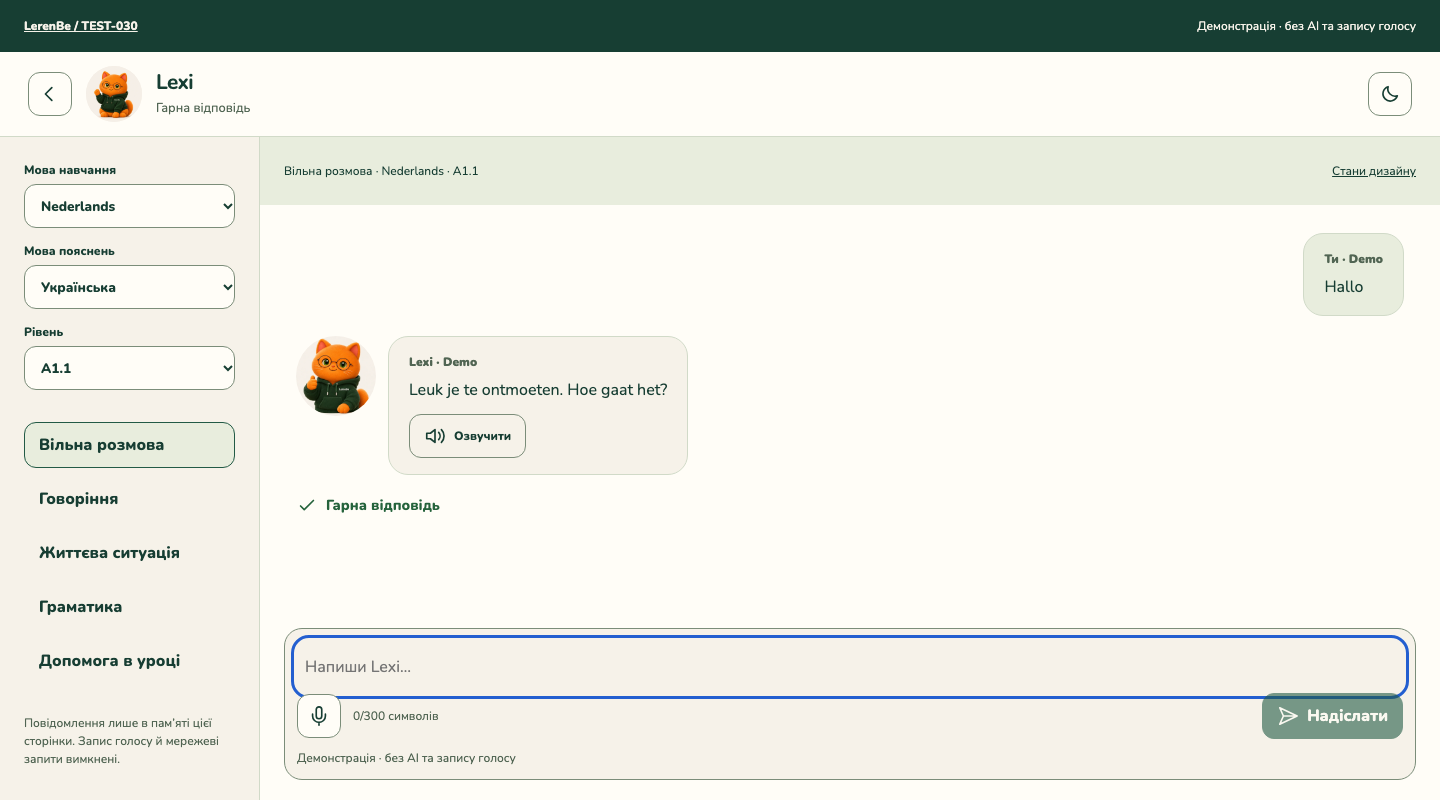
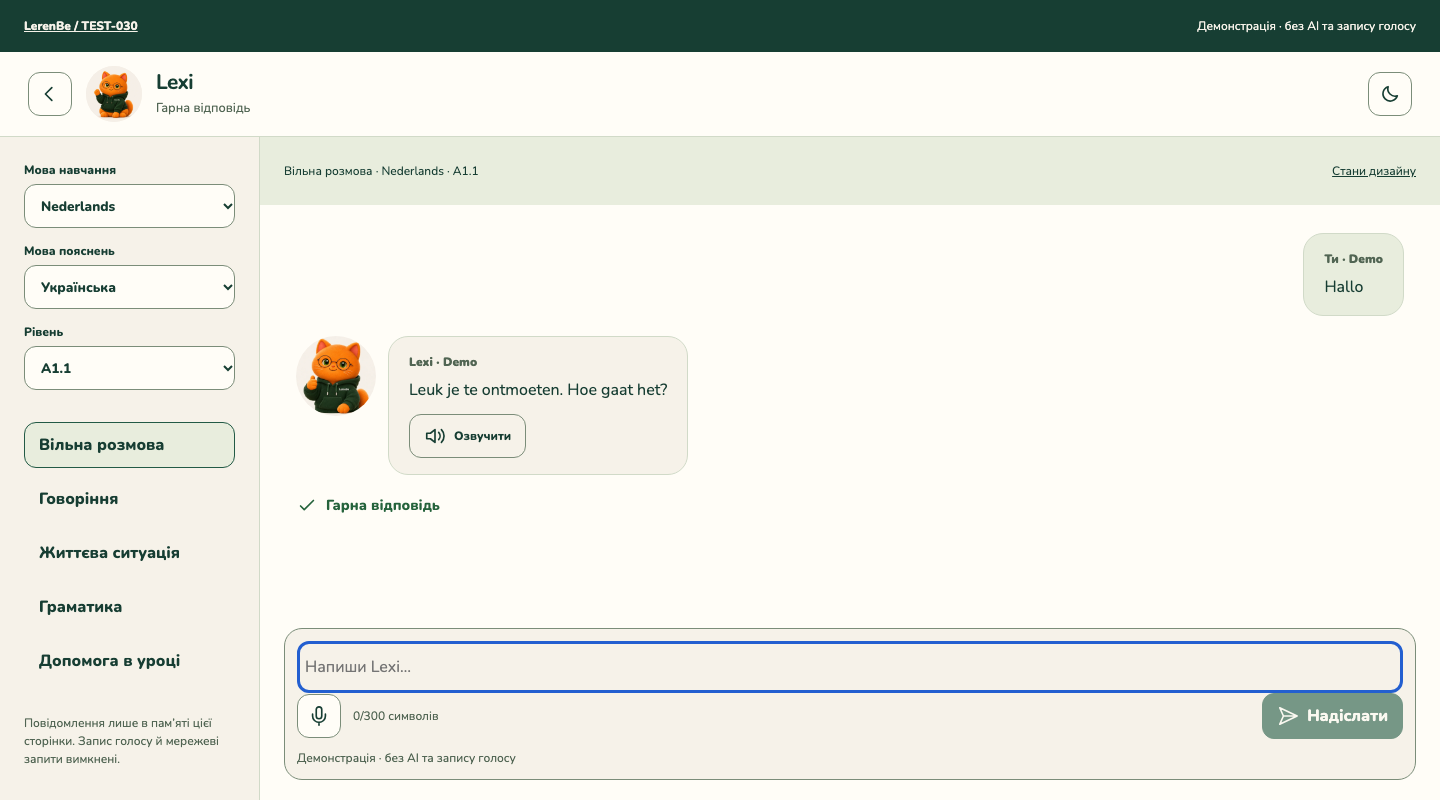
TEST-033: close the keyboard after sending on a phone; focus ring inside the field
Owner's Samsung check of preview 2:
- after sending, the keyboard stayed open and had to be closed by hand
  (the chat re-focused the field when Lexi's reply arrived). On touch
  devices (pointer: coarse) sending now takes the focus out of the
  field and the reply no longer puts it back; on desktop the focus
  stays in the field as before.
- the field's focus ring (outline-offset 3px) ran over the mic / send
  row; it is now drawn inside the field.

lexi-keyboard-033 checks both (emulation); preview3; tests 44/44,
lab checks 4/4. Physical Samsung re-check pending.

Changed region(s): [[0.1875, 0.7812, 1.0, 0.875]]

diff --git a/app/modules/lexi/chat.js b/app/modules/lexi/chat.js
@@ -32,14 +32,14 @@ export function mountLexiChat(root,{engine,voice=null,demo=false,initial={},cont
  function reset(){epoch++;s.settings=null;stopVoice?.();stopVoice=null;s.busy=false;s.pending=null;s.error=null;s.until=0;s.messages=[];s.state='welcome';s.notice=t().changed;clearInterval(interval);bind();render()}
  function scrollEnd(){const log=root.querySelector('.chat-log');log.scrollTop=log.scrollHeight}
  async function send(retry=false){if(s.busy||s.until>Date.now()||(!retry&&s.pending))return;const text=retry?s.pending?.content:s.draft.trim();if(!text)return;if(text.length>max()){s.error={code:'tooLong'};s.state='error';render();return}if(!retry){s.pending={role:'user',content:text};s.messages.push(s.pending);s.draft=''}s.error=null;s.notice='';s.busy=true;s.state='thinking';const token=++epoch;render();scrollEnd();
- try{const out=await engine.send(s.scenario,{ui:s.ui,target:s.target,level:s.level,topic:s.scenario==='lesson'?(lessonContext.topic||(demo?'Знайомство':'')):'',lesson:s.scenario==='lesson'?(lessonContext.lesson||(demo?'Перша розмова':'')):'',question:s.scenario==='lesson'?lessonContext.question||'':'',answer:s.scenario==='lesson'?lessonContext.answer||'':''},s.messages.slice(-12).map(({role,content})=>({role,content})),{...(hostExtra?hostExtra(s.scenario)||{}:{}),...(s.scenario==='roleplay'?{scene:s.scene}:{})});if(disposed||token!==epoch)return;s.messages.push({role:'assistant',content:out.reply||out.answer,result:out});s.pending=null;s.state=out.kind==='ask'?'idle':out.verdict||'idle';try{onReply&&onReply(out,{scenario:s.scenario,ui:s.ui,target:s.target,level:s.level,user:text,messages:s.messages.map(({role,content})=>({role,content}))})}catch(e){}}catch(e){if(disposed||token!==epoch)return;s.error={code:Object.hasOwn(errorPolicy,e.code)?e.code:'network',wait:e.wait};s.state=s.error.code==='offline'?'offline':'error';if(s.error.code==='limit')s.until=Number(e.wait?.at)||0;if(s.error.code==='slow'){s.until=Date.now()+Math.max(0,Number(e.wait?.seconds)||0)*1000;clearInterval(interval);interval=setInterval(()=>{render();if(Date.now()>=s.until)clearInterval(interval)},1000)}}finally{if(!disposed&&token===epoch){s.busy=false;render();scrollEnd();if(!s.error)root.querySelector('[name=draft]')?.focus({preventScroll:true})}}}
+ try{const out=await engine.send(s.scenario,{ui:s.ui,target:s.target,level:s.level,topic:s.scenario==='lesson'?(lessonContext.topic||(demo?'Знайомство':'')):'',lesson:s.scenario==='lesson'?(lessonContext.lesson||(demo?'Перша розмова':'')):'',question:s.scenario==='lesson'?lessonContext.question||'':'',answer:s.scenario==='lesson'?lessonContext.answer||'':''},s.messages.slice(-12).map(({role,content})=>({role,content})),{...(hostExtra?hostExtra(s.scenario)||{}:{}),...(s.scenario==='roleplay'?{scene:s.scene}:{})});if(disposed||token!==epoch)return;s.messages.push({role:'assistant',content:out.reply||out.answer,result:out});s.pending=null;s.state=out.kind==='ask'?'idle':out.verdict||'idle';try{onReply&&onReply(out,{scenario:s.scenario,ui:s.ui,target:s.target,level:s.level,user:text,messages:s.messages.map(({role,content})=>({role,content}))})}catch(e){}}catch(e){if(disposed||token!==epoch)return;s.error={code:Object.hasOwn(errorPolicy,e.code)?e.code:'network',wait:e.wait};s.state=s.error.code==='offline'?'offline':'error';if(s.error.code==='limit')s.until=Number(e.wait?.at)||0;if(s.error.code==='slow'){s.until=Date.now()+Math.max(0,Number(e.wait?.seconds)||0)*1000;clearInterval(interval);interval=setInterval(()=>{render();if(Date.now()>=s.until)clearInterval(interval)},1000)}}finally{if(!disposed&&token===epoch){s.busy=false;render();scrollEnd();if(!s.error&&!matchMedia('(pointer:coarse)').matches)root.querySelector('[name=draft]')?.focus({preventScroll:true})}}}
  function edit(cancel=false){if(!s.pending)return;if(!cancel)s.draft=s.pending.content;s.messages=s.messages.filter(m=>m!==s.pending);s.pending=null;s.error=s.until>Date.now()?s.error:null;s.state=s.error?'error':'idle';render();root.querySelector('[name=draft]')?.focus()}
  function preview(state,code='network'){reset();s.notice='';s.state=state;if(state==='error'||state==='offline'){s.error={code:state==='offline'?'offline':code,wait:code==='slow'?{seconds:3}:code==='limit'?{at:Date.now()+86400000}:null};s.pending={role:'user',content:'Ik werken in België.'};s.messages=[s.pending];if(code==='limit')s.until=s.error.wait.at;if(code==='slow'){s.until=Date.now()+3000;interval=setInterval(()=>{render();if(Date.now()>=s.until)clearInterval(interval)},1000)}}
  if(['correct','incorrect','idle'].includes(state)){const bad=state==='incorrect';s.messages=[{role:'user',content:bad?'Ik werken in België.':'Ik werk in België.'},{role:'assistant',content:'Goed zo.',result:state==='idle'?{kind:'ask',answer:'Ik + werk.',examples:[{lang:'nl',text:'Ik werk in België.',translation:'Я працюю в Бельгії.'}]}:{kind:'chat',reply:'Leuk je te ontmoeten!',translation:'Приємно познайомитися!',verdict:bad?'incorrect':'correct',correction:bad?{original:'Ik werken in België.',corrected:'Ik werk in België.',explanation:'Ik + werk.',severity:'minor'}:null}}];if(bad)s.scenario='roleplay'}render()}
  function click(e){const scenario=e.target.closest('[data-scenario]');if(scenario){s.scenario=scenario.dataset.scenario;reset();return}const b=e.target.closest('[data-action]');if(!b||b.disabled)return;const a=b.dataset.action;if(a==='theme'){s.theme=s.theme==='light'?'dark':'light';render()}if(a==='settings'){s.settings=!settingsOpen();render()}if(a==='leave'){reset();onLeave()}if(a==='starter'){s.draft=b.textContent;render();root.querySelector('[name=draft]').focus()}if(a==='retry')send(true);if(a==='edit')edit();if(a==='cancel')edit(true);if(a==='mic'){if(voice?.listen&&engine.voice?.().listen){s.state='listening';render();const token=epoch;stopVoice=voice.listen({lang:s.target,ui:s.ui,scenario:s.scenario,onText:text=>{if(token!==epoch||disposed)return;s.draft=String(text).slice(0,max());s.notice=t().voiceHint;render()},onEnd:()=>{if(token===epoch&&!disposed){s.state='idle';render()}},onError:error=>{if(token===epoch&&!disposed){s.state='idle';s.notice=error?.code==='micDenied'?t().micDenied:t().noVoice;render()}}})}else{s.notice=t().noVoice;render()}}if(a==='speak'){const reply=b.dataset.i?s.messages[+b.dataset.i]:[...s.messages].reverse().find(m=>m.role==='assistant');if(voice?.speak&&engine.voice?.().speak&&reply){s.state='speaking';render();const token=epoch;stopVoice=voice.speak(reply.content,s.target,()=>{if(token===epoch&&!disposed){s.state='idle';render()}})}else{s.notice=t().noVoice;render()}}if(a==='report'&&report){const m=s.messages[+b.dataset.i];if(m)report.send(m)}if(a==='forget'&&memory){memory.forget();render()}if(a==='stop'){epoch++;stopVoice?.();stopVoice=null;s.state=s.messages.length?'idle':'welcome';render()}}
  function change(e){const n=e.target.name;if(['ui','target','level','scene'].includes(n)){s[n]=e.target.value;reset()}if(n==='preview')preview(e.target.value);if(n==='errorCode'){s.errorCode=e.target.value;preview('error',e.target.value)}}
  function input(e){if(e.target.name==='draft'){s.draft=e.target.value;root.querySelector('#counter').textContent=`${s.draft.length}/${max()} ${t().count}`;root.querySelector('[type=submit]').disabled=!s.draft.trim()||s.busy||!!s.pending||s.until>Date.now()}}
- function submit(e){e.preventDefault();send()}
+ function submit(e){e.preventDefault();if(matchMedia('(pointer:coarse)').matches)root.querySelector('[name=draft]')?.blur();send()} // TEST-033: on a phone the keyboard closes after sending (owner's request); on desktop the focus stays in the field
  root.addEventListener('click',click);root.addEventListener('change',change);root.addEventListener('input',input);root.addEventListener('submit',submit);bind();render();
  return{preview,getState:()=>({...s,messages:s.messages.map(m=>({...m}))}),destroy(){disposed=true;viewport?.removeEventListener('resize',resizeViewport);viewport?.removeEventListener('scroll',resizeViewport);root.removeEventListener('scroll',trackEnd,true);root.style.removeProperty('--lexi-viewport-height');root.style.removeProperty('--lexi-viewport-top');root.classList.remove('lexi-keyboard');epoch++;unsub?.();clearInterval(interval);stopVoice?.();root.removeEventListener('click',click);root.removeEventListener('change',change);root.removeEventListener('input',input);root.removeEventListener('submit',submit);root.replaceChildren()}};
 }

diff --git a/design-lab/test-030/lexi/chat.js b/design-lab/test-030/lexi/chat.js
@@ -31,14 +31,14 @@ export function mountLexiChat(root,{engine,voice=null,demo=false,initial={},cont
  function reset(){epoch++;s.settings=null;stopVoice?.();stopVoice=null;s.busy=false;s.pending=null;s.error=null;s.until=0;s.messages=[];s.state='welcome';s.notice=t().changed;clearInterval(interval);bind();render()}
  function scrollEnd(){const log=root.querySelector('.chat-log');log.scrollTop=log.scrollHeight}
  async function send(retry=false){if(s.busy||s.until>Date.now()||(!retry&&s.pending))return;const text=retry?s.pending?.content:s.draft.trim();if(!text)return;if(text.length>max()){s.error={code:'tooLong'};s.state='error';render();return}if(!retry){s.pending={role:'user',content:text};s.messages.push(s.pending);s.draft=''}s.error=null;s.notice='';s.busy=true;s.state='thinking';const token=++epoch;render();scrollEnd();
- try{const out=await engine.send(s.scenario,{ui:s.ui,target:s.target,level:s.level,topic:s.scenario==='lesson'?(lessonContext.topic||(demo?'Знайомство':'')):'',lesson:s.scenario==='lesson'?(lessonContext.lesson||(demo?'Перша розмова':'')):'',question:s.scenario==='lesson'?lessonContext.question||'':'',answer:s.scenario==='lesson'?lessonContext.answer||'':''},s.messages.slice(-12).map(({role,content})=>({role,content})),s.scenario==='roleplay'?{scene:s.scene}:{});if(disposed||token!==epoch)return;s.messages.push({role:'assistant',content:out.reply||out.answer,result:out});s.pending=null;s.state=out.kind==='ask'?'idle':out.verdict||'idle'}catch(e){if(disposed||token!==epoch)return;s.error={code:Object.hasOwn(errorPolicy,e.code)?e.code:'network',wait:e.wait};s.state=s.error.code==='offline'?'offline':'error';if(s.error.code==='limit')s.until=Number(e.wait?.at)||0;if(s.error.code==='slow'){s.until=Date.now()+Math.max(0,Number(e.wait?.seconds)||0)*1000;clearInterval(interval);interval=setInterval(()=>{render();if(Date.now()>=s.until)clearInterval(interval)},1000)}}finally{if(!disposed&&token===epoch){s.busy=false;render();scrollEnd();if(!s.error)root.querySelector('[name=draft]')?.focus({preventScroll:true})}}}
+ try{const out=await engine.send(s.scenario,{ui:s.ui,target:s.target,level:s.level,topic:s.scenario==='lesson'?(lessonContext.topic||(demo?'Знайомство':'')):'',lesson:s.scenario==='lesson'?(lessonContext.lesson||(demo?'Перша розмова':'')):'',question:s.scenario==='lesson'?lessonContext.question||'':'',answer:s.scenario==='lesson'?lessonContext.answer||'':''},s.messages.slice(-12).map(({role,content})=>({role,content})),s.scenario==='roleplay'?{scene:s.scene}:{});if(disposed||token!==epoch)return;s.messages.push({role:'assistant',content:out.reply||out.answer,result:out});s.pending=null;s.state=out.kind==='ask'?'idle':out.verdict||'idle'}catch(e){if(disposed||token!==epoch)return;s.error={code:Object.hasOwn(errorPolicy,e.code)?e.code:'network',wait:e.wait};s.state=s.error.code==='offline'?'offline':'error';if(s.error.code==='limit')s.until=Number(e.wait?.at)||0;if(s.error.code==='slow'){s.until=Date.now()+Math.max(0,Number(e.wait?.seconds)||0)*1000;clearInterval(interval);interval=setInterval(()=>{render();if(Date.now()>=s.until)clearInterval(interval)},1000)}}finally{if(!disposed&&token===epoch){s.busy=false;render();scrollEnd();if(!s.error&&!matchMedia('(pointer:coarse)').matches)root.querySelector('[name=draft]')?.focus({preventScroll:true})}}}
  function edit(cancel=false){if(!s.pending)return;if(!cancel)s.draft=s.pending.content;s.messages=s.messages.filter(m=>m!==s.pending);s.pending=null;s.error=s.until>Date.now()?s.error:null;s.state=s.error?'error':'idle';render();root.querySelector('[name=draft]')?.focus()}
  function preview(state,code='network'){reset();s.notice='';s.state=state;if(state==='error'||state==='offline'){s.error={code:state==='offline'?'offline':code,wait:code==='slow'?{seconds:3}:code==='limit'?{at:Date.now()+86400000}:null};s.pending={role:'user',content:'Ik werken in België.'};s.messages=[s.pending];if(code==='limit')s.until=s.error.wait.at;if(code==='slow'){s.until=Date.now()+3000;interval=setInterval(()=>{render();if(Date.now()>=s.until)clearInterval(interval)},1000)}}
  if(['correct','incorrect','idle'].includes(state)){const bad=state==='incorrect';s.messages=[{role:'user',content:bad?'Ik werken in België.':'Ik werk in België.'},{role:'assistant',content:'Goed zo.',result:state==='idle'?{kind:'ask',answer:'Ik + werk.',examples:[{lang:'nl',text:'Ik werk in België.',translation:'Я працюю в Бельгії.'}]}:{kind:'chat',reply:'Leuk je te ontmoeten!',translation:'Приємно познайомитися!',verdict:bad?'incorrect':'correct',correction:bad?{original:'Ik werken in België.',corrected:'Ik werk in België.',explanation:'Ik + werk.',severity:'minor'}:null}}];if(bad)s.scenario='roleplay'}render()}
  function click(e){const scenario=e.target.closest('[data-scenario]');if(scenario){s.scenario=scenario.dataset.scenario;reset();return}const b=e.target.closest('[data-action]');if(!b||b.disabled)return;const a=b.dataset.action;if(a==='theme'){s.theme=s.theme==='light'?'dark':'light';render()}if(a==='settings'){s.settings=!settingsOpen();render()}if(a==='leave'){reset();onLeave()}if(a==='starter'){s.draft=b.textContent;render();root.querySelector('[name=draft]').focus()}if(a==='retry')send(true);if(a==='edit')edit();if(a==='cancel')edit(true);if(a==='mic'){if(voice?.listen&&engine.voice?.().listen){s.state='listening';render();const token=epoch;stopVoice=voice.listen({lang:s.target,onText:text=>{if(token!==epoch||disposed)return;s.draft=String(text).slice(0,max());s.notice=t().voiceHint;render()},onEnd:()=>{if(token===epoch&&!disposed){s.state='idle';render()}},onError:error=>{if(token===epoch&&!disposed){s.state='idle';s.notice=error?.code==='micDenied'?t().micDenied:t().noVoice;render()}}})}else{s.notice=t().noVoice;render()}}if(a==='speak'){const reply=[...s.messages].reverse().find(m=>m.role==='assistant');if(voice?.speak&&engine.voice?.().speak&&reply){s.state='speaking';render();const token=epoch;stopVoice=voice.speak(reply.content,s.target,()=>{if(token===epoch&&!disposed){s.state='idle';render()}})}else{s.notice=t().noVoice;render()}}if(a==='stop'){epoch++;stopVoice?.();stopVoice=null;s.state=s.messages.length?'idle':'welcome';render()}}
  function change(e){const n=e.target.name;if(['ui','target','level','scene'].includes(n)){s[n]=e.target.value;reset()}if(n==='preview')preview(e.target.value);if(n==='errorCode'){s.errorCode=e.target.value;preview('error',e.target.value)}}
  function input(e){if(e.target.name==='draft'){s.draft=e.target.value;root.querySelector('#counter').textContent=`${s.draft.length}/${max()} ${t().count}`;root.querySelector('[type=submit]').disabled=!s.draft.trim()||s.busy||!!s.pending||s.until>Date.now()}}
- function submit(e){e.preventDefault();send()}
+ function submit(e){e.preventDefault();if(matchMedia('(pointer:coarse)').matches)root.querySelector('[name=draft]')?.blur();send()} // TEST-033: on a phone the keyboard closes after sending (owner's request); on desktop the focus stays in the field
  root.addEventListener('click',click);root.addEventListener('change',change);root.addEventListener('input',input);root.addEventListener('submit',submit);bind();render();
  return{preview,getState:()=>({...s,messages:s.messages.map(m=>({...m}))}),destroy(){disposed=true;viewport?.removeEventListener('resize',resizeViewport);viewport?.removeEventListener('scroll',resizeViewport);root.removeEventListener('scroll',trackEnd,true);root.style.removeProperty('--lexi-viewport-height');root.style.removeProperty('--lexi-viewport-top');root.classList.remove('lexi-keyboard');epoch++;unsub?.();clearInterval(interval);stopVoice?.();root.removeEventListener('click',click);root.removeEventListener('change',change);root.removeEventListener('input',input);root.removeEventListener('submit',submit);root.replaceChildren()}};
 }

diff --git a/design-lab/test-030/lexi/index.html b/design-lab/test-030/lexi/index.html
@@ -1,1 +1,1 @@
-<!doctype html><html lang="uk" data-theme="light"><head><meta charset="utf-8"><meta name="viewport" content="width=device-width,initial-scale=1,viewport-fit=cover"><meta name="robots" content="noindex,nofollow"><meta http-equiv="Content-Security-Policy" content="default-src 'self'; script-src 'self'; style-src 'self'; img-src 'self'; font-src 'self'; connect-src 'none'; media-src 'none'; object-src 'none'; base-uri 'none'; form-action 'none'"><title>Lexi · Gamified Belgium · Contract-ready design</title><link rel="stylesheet" href="../tokens.css"><link rel="stylesheet" href="chat.css?v=test033-preview2"><script type="module" src="demo.js?v=test033-preview2"></script></head><body><div id="lexiRoot"></div></body></html>
+<!doctype html><html lang="uk" data-theme="light"><head><meta charset="utf-8"><meta name="viewport" content="width=device-width,initial-scale=1,viewport-fit=cover"><meta name="robots" content="noindex,nofollow"><meta http-equiv="Content-Security-Policy" content="default-src 'self'; script-src 'self'; style-src 'self'; img-src 'self'; font-src 'self'; connect-src 'none'; media-src 'none'; object-src 'none'; base-uri 'none'; form-action 'none'"><title>Lexi · Gamified Belgium · Contract-ready design</title><link rel="stylesheet" href="../tokens.css"><link rel="stylesheet" href="chat.css?v=test033-preview3"><script type="module" src="demo.js?v=test033-preview3"></script></head><body><div id="lexiRoot"></div></body></html>

diff --git a/design-lab/test-030/lexi/demo.js b/design-lab/test-030/lexi/demo.js
@@ -1,4 +1,4 @@
-import{mountLexiChat}from'./chat.js?v=test033-preview2';import{createDemoEngine}from'./mock.js';
+import{mountLexiChat}from'./chat.js?v=test033-preview3';import{createDemoEngine}from'./mock.js';
 const q=new URLSearchParams(location.search),pick=(key,values,fallback)=>values.includes(q.get(key))?q.get(key):fallback;
 const chat=mountLexiChat(document.getElementById('lexiRoot'),{engine:createDemoEngine(),demo:true,initial:{theme:pick('theme',['light','dark'],'light'),ui:pick('ui',['uk','en','fr','ar'],'uk'),target:pick('target',['nl','fr','en'],'nl'),level:pick('level',['a11','a12','a21'],'a11')}});
 if(q.has('state'))chat.preview(pick('state',['welcome','listening','thinking','speaking','correct','incorrect','offline','error','idle'],'welcome'),pick('code',['offline','beta','unavailable','timeout','network','slow','limit','refusal','off','format','tooLong','empty'],'network'));

diff --git a/app/modules/lexi/chat.css b/app/modules/lexi/chat.css
@@ -14,6 +14,8 @@
 .settings-button{display:none}
 /* screen-reader-only labels inside the history are positioned against it, not the page (otherwise they stretch the page: a second scroll) */
 .chat-log{position:relative}
+/* the focus ring of the message field is drawn inside it, not over the mic / send row below */
+.ai-type input:focus-visible{outline-offset:-3px}
 .assistant-row{display:flex;align-items:flex-start;gap:12px;direction:ltr;margin-bottom:20px;max-width:100%}
 .assistant-row .g-bub{min-width:0;max-width:calc(100% - 92px);margin:0}
 .assistant-row .reply-avatar{width:80px;height:80px;flex-shrink:0;position:sticky;top:0;margin:0}

diff --git a/design-lab/test-030/lexi/chat.css b/design-lab/test-030/lexi/chat.css
@@ -10,6 +10,8 @@
 .settings-button{display:none}
 /* screen-reader-only labels inside the history are positioned against it, not the page (otherwise they stretch the page: a second scroll) */
 .chat-log{position:relative}
+/* the focus ring of the message field is drawn inside it, not over the mic / send row below */
+.ai-type input:focus-visible{outline-offset:-3px}
 .assistant-row{display:flex;align-items:flex-start;gap:12px;direction:ltr;margin-bottom:20px;max-width:100%}
 .assistant-row .g-bub{min-width:0;max-width:calc(100% - 92px);margin:0}
 .assistant-row .reply-avatar{width:80px;height:80px;flex-shrink:0;position:sticky;top:0;margin:0}
